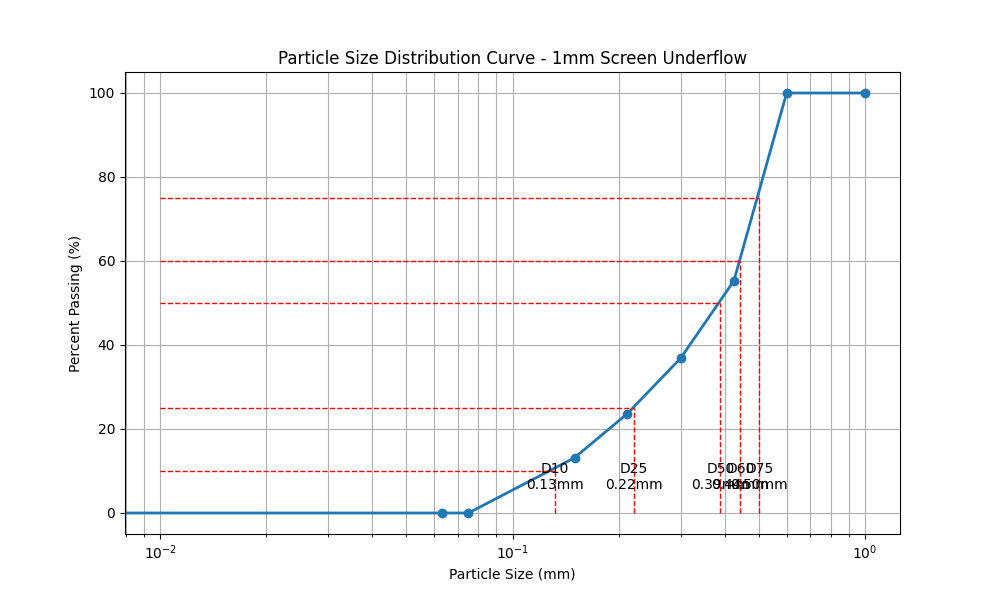
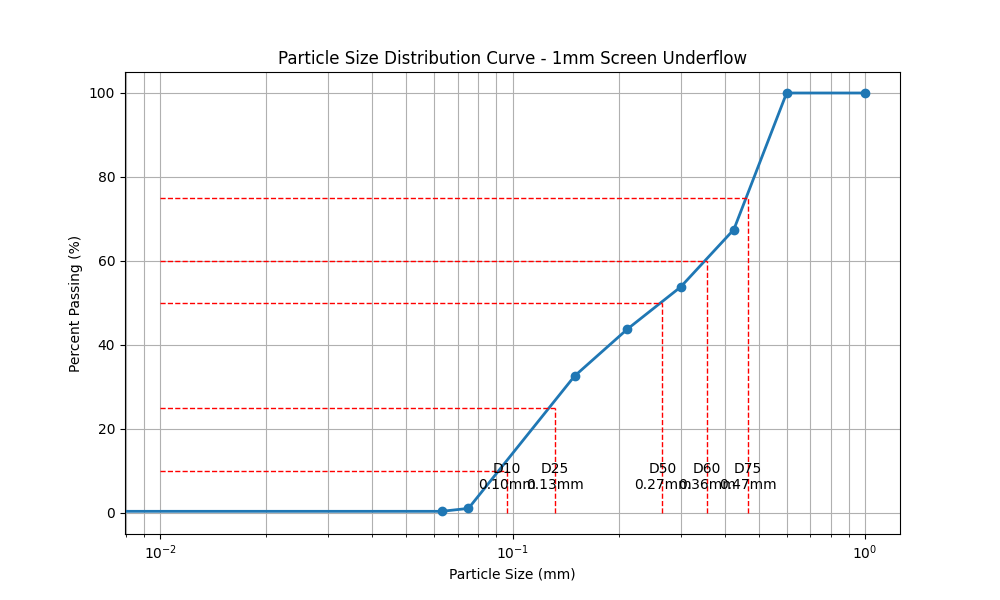
Fixed overflow analysis to properly handle material passing through 0.075mm sieve

diff --git a/sieve_analysis.py b/sieve_analysis.py
@@ -130,6 +130,66 @@ def generate_underflow_data(sieve_sizes, percent_passing, cutoff_size):
     
     return underflow_sizes, underflow_passing
 
+def generate_overflow_data(sieve_sizes, percent_passing, cutoff_size):
+    """
+    Generate overflow data for material retained on a given sieve size
+    Returns new sieve sizes and percent passing arrays for the overflow
+    
+    For overflow, we only keep material RETAINED on the cutoff sieve (particles larger than cutoff_size)
+    and recalculate percentages based on this subset of material
+    """
+    # Find indices for values just above and below the cutoff size
+    above_idx = None
+    below_idx = None
+    
+    for i, size in enumerate(sieve_sizes):
+        if size >= cutoff_size and (above_idx is None or size < sieve_sizes[above_idx]):
+            above_idx = i
+        if size <= cutoff_size and (below_idx is None or size > sieve_sizes[below_idx]):
+            below_idx = i
+    
+    # Find percentage passing the cutoff size (interpolate if necessary)
+    cutoff_percent = 0
+    if above_idx is not None and below_idx is not None:
+        cutoff_percent = interpolate(
+            sieve_sizes[above_idx], percent_passing[above_idx],
+            sieve_sizes[below_idx], percent_passing[below_idx],
+            cutoff_size
+        )
+    elif below_idx is not None:
+        cutoff_percent = percent_passing[below_idx]
+    
+    # Total material retained on the cutoff sieve (not passing through it)
+    retained_percent = 100.0 - cutoff_percent
+    
+    if retained_percent <= 0:
+        print(f"No material is retained on {cutoff_size} mm sieve")
+        return [], []
+    
+    # Create new arrays for overflow
+    overflow_sizes = []
+    overflow_passing = []
+    
+    # Add the cutoff size with 0% passing (everything is retained)
+    overflow_sizes.append(cutoff_size)
+    overflow_passing.append(0.0)
+    
+    # Add all larger sieve sizes with recalculated percentages
+    for i, size in enumerate(sieve_sizes):
+        if size > cutoff_size:
+            # For overflow, we recalculate percent passing as:
+            # (original_passing - cutoff_passing) / (100 - cutoff_passing) * 100
+            new_percent = (percent_passing[i] - cutoff_percent) / retained_percent * 100.0
+            overflow_sizes.append(size)
+            overflow_passing.append(new_percent)
+    
+    # Sort by descending sieve size (largest first)
+    sorted_indices = np.argsort(overflow_sizes)[::-1]
+    overflow_sizes = [overflow_sizes[i] for i in sorted_indices]
+    overflow_passing = [overflow_passing[i] for i in sorted_indices]
+    
+    return overflow_sizes, overflow_passing
+
 def evaluate_criteria(results):
     """
     Evaluate the sample against the specified criteria
@@ -438,7 +498,7 @@ def plot_with_envelope(results_list, criteria_eval_list, filename="grading_envel
 def main():
     # Complete beach sand sieve analysis data - in descending order of sieve size
     sieve_sizes_original = [28, 20, 19, 14, 10, 6.3, 5, 4.75, 3.35, 2.36, 2, 1.18, 0.600, 0.425, 0.300, 0.212, 0.150, 0.075, 0.063, 0]
-    percent_passing_original = [100.0, 100.0, 100.0, 100.0, 100.0, 100.0, 100.0, 100.0, 99.0, 90.0, 87.0, 59.0, 38.0, 21.0, 14.0, 9.0, 5.0, 0.0, 0.0, 0.0]
+    percent_passing_original = [100.0, 100.0, 100.0, 100.0, 100.0, 100.0, 100.0, 100.0, 100.0, 100.0, 100.0, 100.0, 100.0, 67.5, 53.8, 43.8, 32.6, 1.1, 0.4, 0.0]
     
     # Part 1: Analyze the original sample
     print("\n===== ORIGINAL SAMPLE ANALYSIS =====")
@@ -464,11 +524,20 @@ def main():
     
     # Part 3: Analyze the 0.075mm screen overflow (from 1mm underflow)
     print("\n===== 0.075mm SCREEN OVERFLOW ANALYSIS (FROM 1mm UNDERFLOW) =====")
-    # For the overflow, we keep all the same material but remove any passing below 0.075mm
-    # In this case, since nothing passes 0.075mm in the underflow, the results are identical
-    overflow_results = analyze_sample(underflow_1mm_sizes, underflow_1mm_passing, "0.075mm Screen Overflow")
+    # Calculate the proper overflow data (material retained on the 0.075mm sieve)
+    overflow_sizes, overflow_passing = generate_overflow_data(underflow_1mm_sizes, underflow_1mm_passing, 0.075)
+    overflow_results = analyze_sample(overflow_sizes, overflow_passing, "0.075mm Screen Overflow")
     overflow_criteria = evaluate_criteria(overflow_results)
     print_analysis_results(overflow_results, overflow_criteria)
+    
+    # Print the overflow passing percentages for reference
+    print("\n0.075mm Screen Overflow - Sieve Analysis Data")
+    print("-" * 50)
+    print(f"{'Sieve Size (mm)':<15} | {'% Passing':<10}")
+    print("-" * 50)
+    for size, passing in zip(overflow_sizes, overflow_passing):
+        print(f"{size:<15.3f} | {passing:<10.1f}")
+    print("-" * 50)
     
     # Create individual plots for each analysis
     plot_distribution(original_results, "original_sample_distribution.png")
